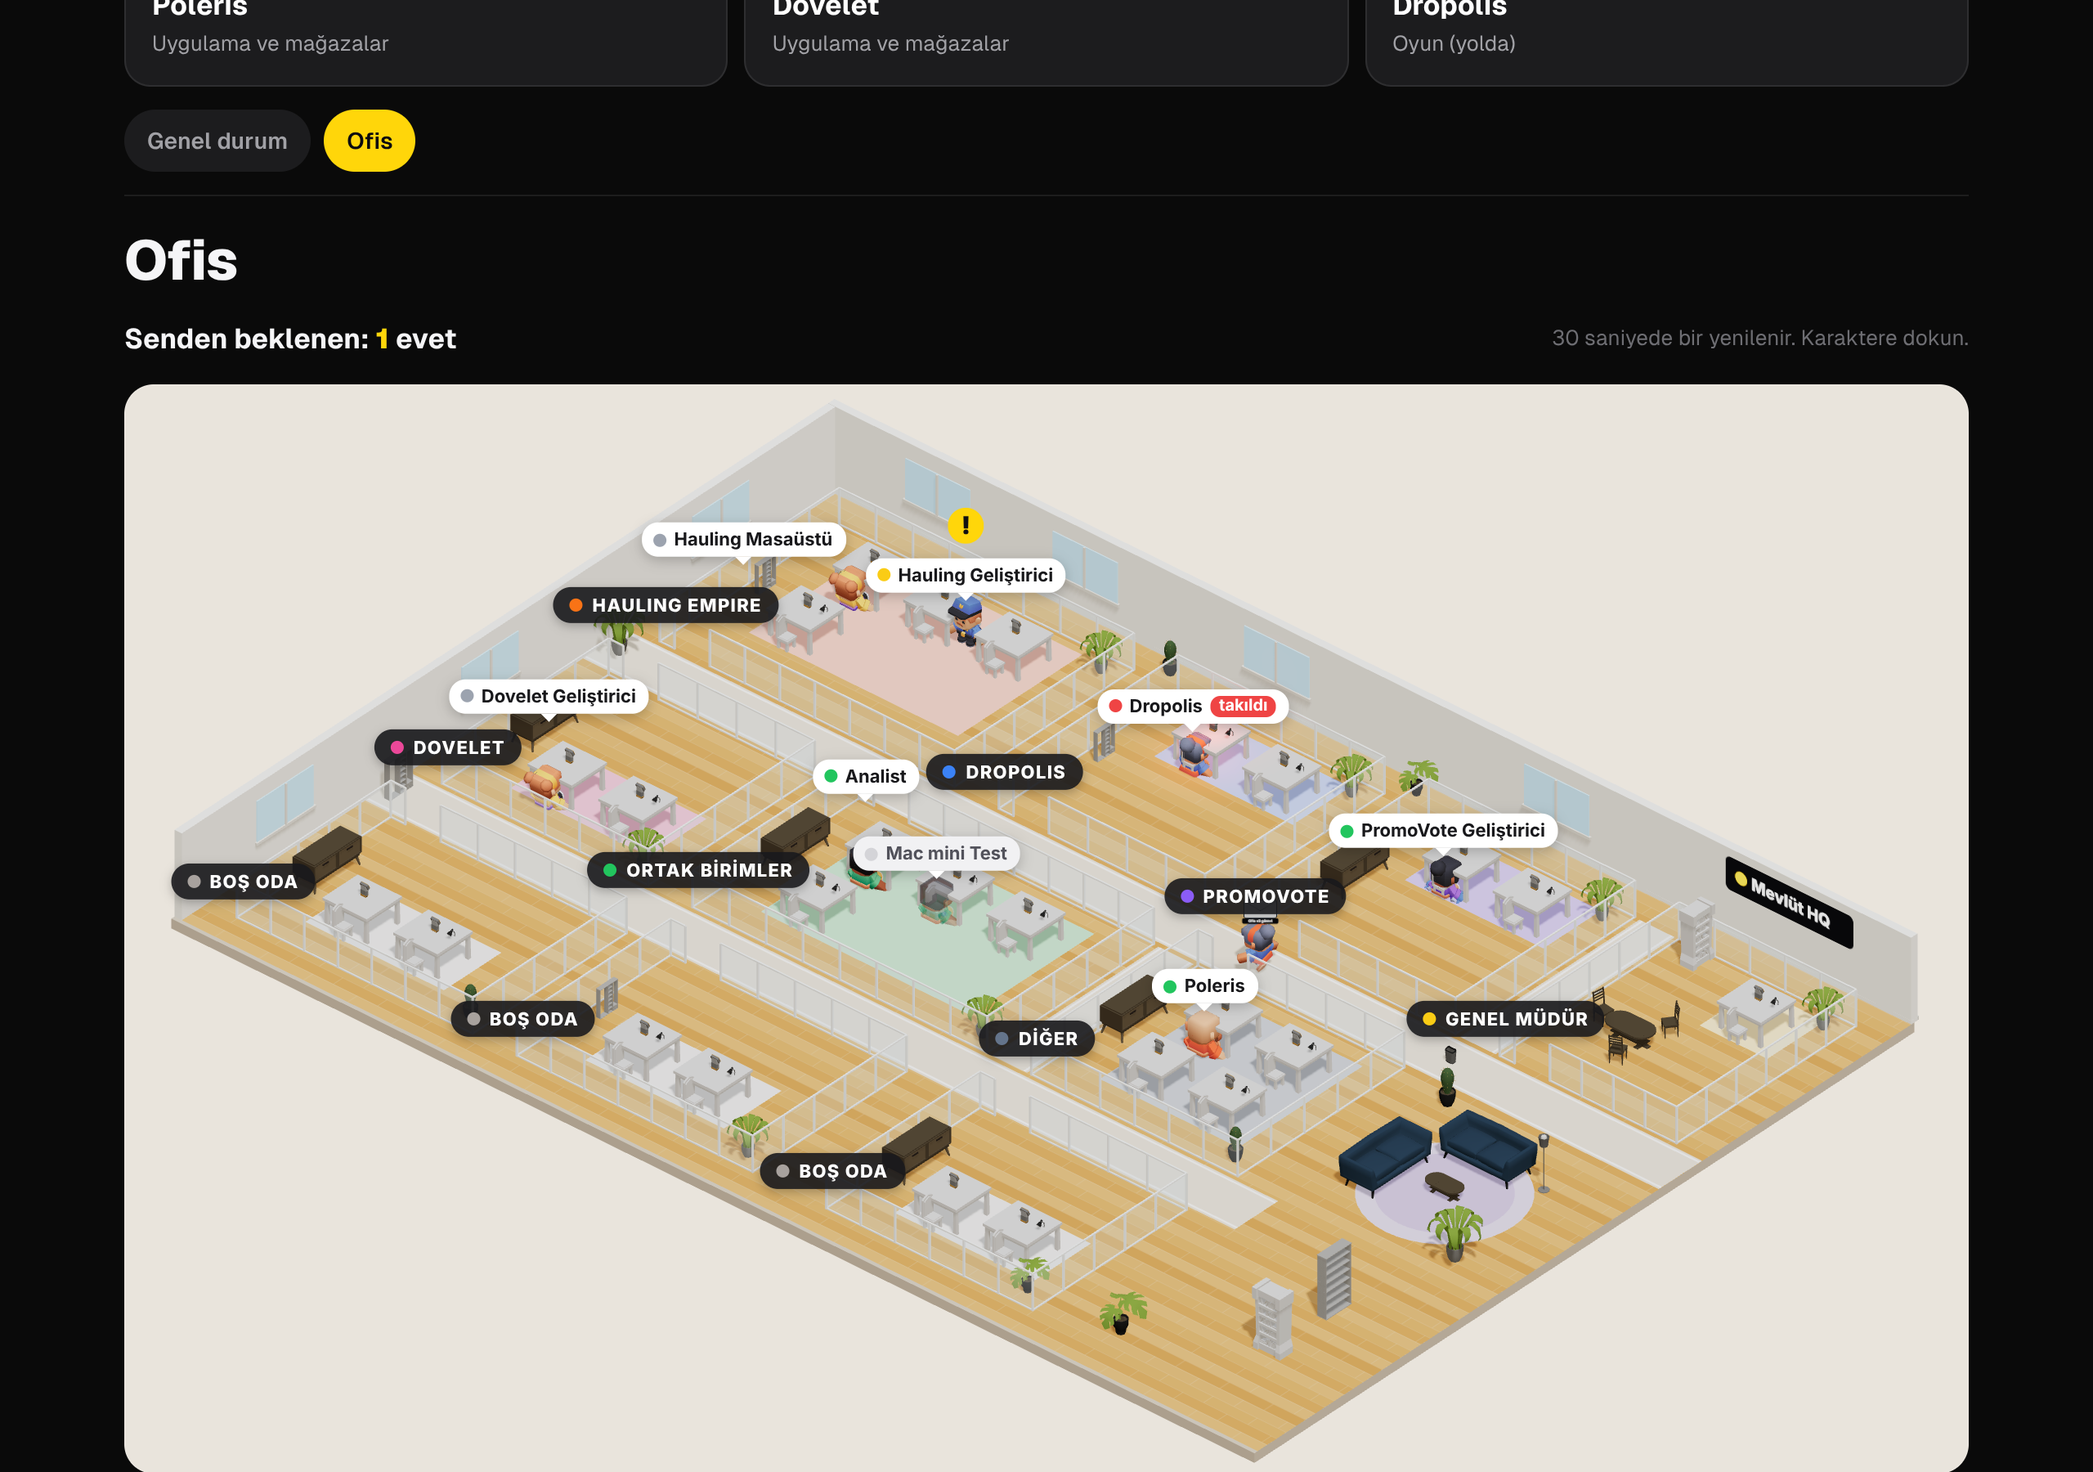
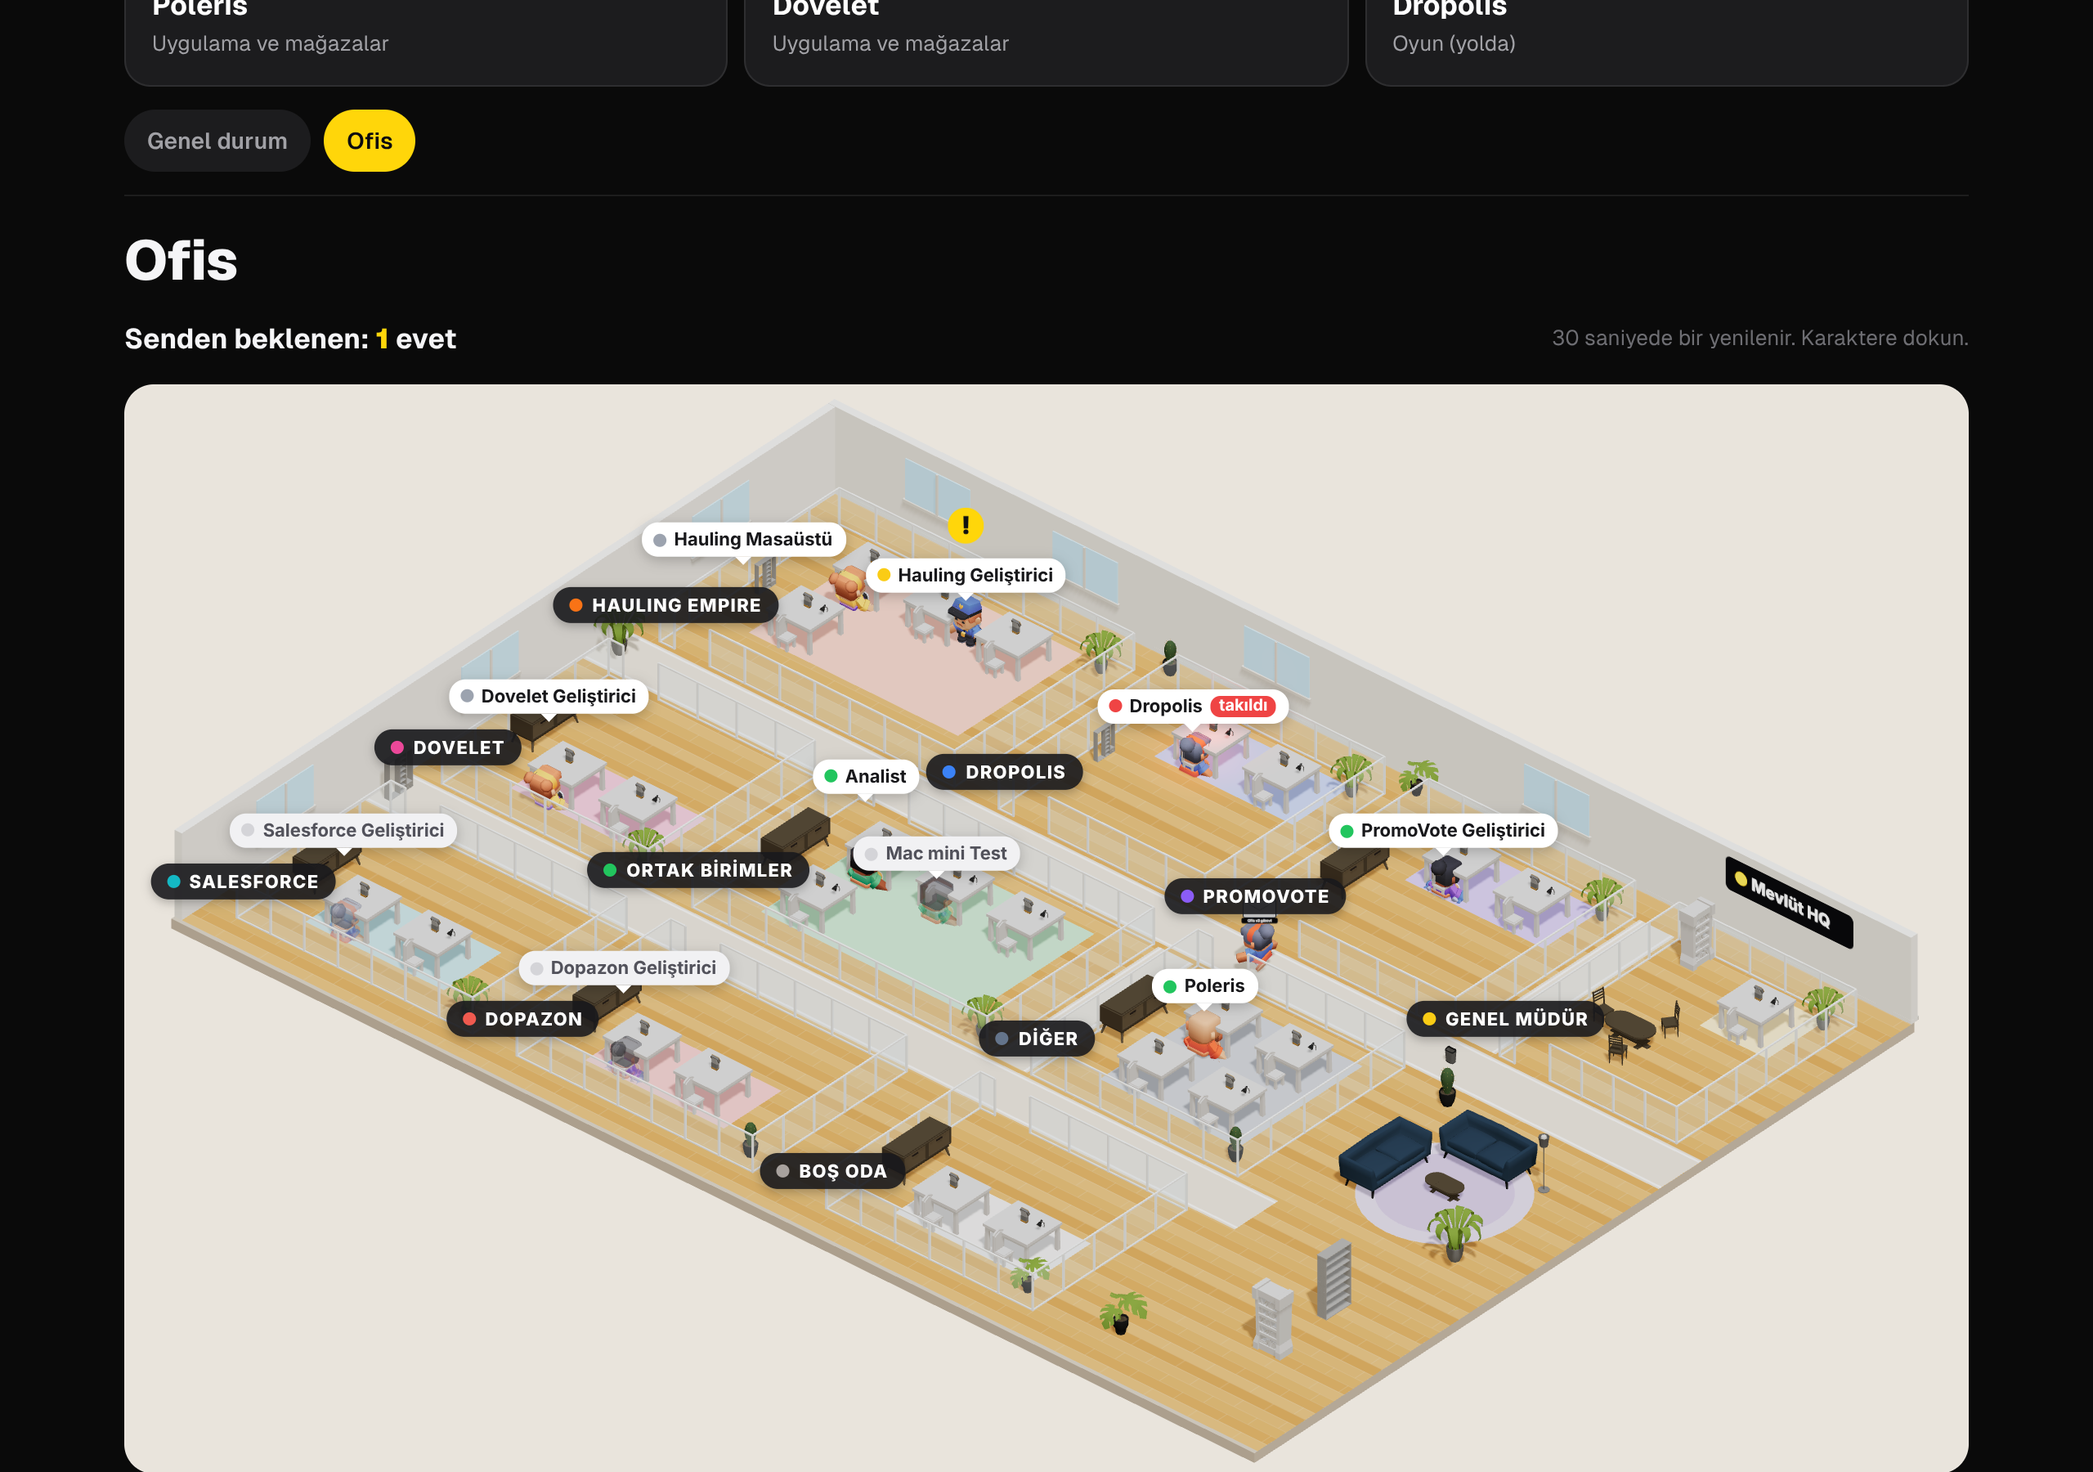
Admin Ofis v3: SALESFORCE and DOPAZON rooms (salesforce-dev, dopazon-dev), one empty room kept
Claude-Session: https://claude.ai/code/session_016Jsgeai3nmEVrWzNSNYGkb

Changed region(s): [[0.0625, 0.5289, 0.3438, 0.7467], [0.5938, 0.6222, 0.625, 0.6533], [0.3438, 0.7467, 0.375, 0.7778]]

diff --git a/web/landing/public/admin-office.js b/web/landing/public/admin-office.js
@@ -31,13 +31,13 @@ const ROOMS = [
   { key: "dovelet", name: "DOVELET", color: "#ec4899", x: 1, z: 10, w: 7, d: 6.5, door: "n", desks: 2 },
   { key: "ortak", name: "ORTAK BİRİMLER", color: "#22c55e", x: 9.5, z: 10, w: 10, d: 6.5, door: "n", desks: 4 },
   { key: "diger", name: "DİĞER", color: "#64748b", x: 21, z: 10, w: 7, d: 6.5, door: "n", desks: 4, spare: true },
-  { key: "bos1", name: "BOŞ ODA", color: "#a8a29e", x: 1, z: 18.5, w: 8, d: 6, door: "n", desks: 2, spare: true },
-  { key: "bos2", name: "BOŞ ODA", color: "#a8a29e", x: 10.5, z: 18.5, w: 8, d: 6, door: "n", desks: 2, spare: true },
+  { key: "salesforce", name: "SALESFORCE", color: "#14b8c4", x: 1, z: 18.5, w: 8, d: 6, door: "n", desks: 2 },
+  { key: "dopazon", name: "DOPAZON", color: "#f05a4f", x: 10.5, z: 18.5, w: 8, d: 6, door: "n", desks: 2 },
   { key: "bos3", name: "BOŞ ODA", color: "#a8a29e", x: 21, z: 18.5, w: 7, d: 6, door: "n", desks: 2, spare: true },
 ];
 const DEPT_OF = {
   ceo: "ceo", "hauling-dev": "hauling", "empire-desktop": "hauling", "robo-works": "dropolis", "promovote-dev": "promovote",
-  "dovelet-dev": "dovelet", "mac-mini-test": "ortak", analyst: "ortak",
+  "dovelet-dev": "dovelet", "mac-mini-test": "ortak", analyst: "ortak", "salesforce-dev": "salesforce", "dopazon-dev": "dopazon",
 };
 const CROSS_X = 20.25; // the corridor between the two room rows' right columns, used to change corridors
 
@@ -82,7 +82,7 @@ function makePlan() {
   const free = (key) => slots.find((s) => s.room.key === key && !s.agent);
   for (const a of agents) {
     // Known ids go to their department; unknown ids open desks in DİĞER, then in the empty rooms.
-    const s = free(DEPT_OF[a.id] || "diger") || free("diger") || free("bos1") || free("bos2") || free("bos3");
+    const s = free(DEPT_OF[a.id] || "diger") || free("diger") || free("bos3");
     if (s) s.agent = a;
   }
 }

diff --git a/CLAUDE.md b/CLAUDE.md
@@ -10,7 +10,7 @@ Status: validation stage. **promovote.com landing page is LIVE** (waitlist).
 ## Live infrastructure (Cloudflare)
 * Landing page: `web/landing/` (Cloudflare Worker + static assets). Deploy: `cd web/landing && npx wrangler deploy`. Custom domains promovote.com and www (www 301 to apex).
 * Waitlist: D1 `promovote-waitlist`, table `waitlist` (email, role, link, country, created_at). Count: `npx wrangler d1 execute promovote-waitlist --remote --command "SELECT role, COUNT(*) FROM waitlist GROUP BY role"`.
-* Admin: `promovote.com/admin` (HTTP Basic auth, password = Worker secret `ADMIN_PASSWORD` set by the founder in the dashboard; Claude does not know it). Navigation (founder request 2026-10-15): four product buttons (Durum, PromoVote, Hauling Empire, Poleris), then that product's pages. `/admin` is the status page (green / yellow / red per product, lists feed sections the product does not send yet). Pages (Turkish, founder request 2026-10-12): `/admin/bekleme` waitlist + CSV (`/admin/export.csv`), `/admin/visitors` (14 days), `/admin/x` (X posts and stats, read only from `promovote-db` via binding `APPDB`), `/admin/app-store` and `/admin/google-play` (Hauling Empire stats from its Supabase function `store-stats`, key in Worker secret `HE_STATS_KEY`, 1 h cache, plus a 30 day sales card), `/admin/hauling-empire/oyun` (in-game feed `store-stats?feed=ops`: online now, days, sales Apple and Google apart, products, subscriptions, online, funnel, health with color rules; 5 min cache). 7 / 30 / 90 day filter via `?range=`. Store pages have a product switcher `?p=haulingempire|poleris|promovote`; Poleris and PromoVote read `metrics_daily` (migration 0020), filled every 12 h by `services/api/src/stats.js` (Apple daily sales reports with key `ASC_STATS_*`, vendor 94642380; Google Play report files from bucket `PLAY_REPORTS_BUCKET` with `GOOGLE_PLAY_SA_JSON`) for all founder apps (PromoVote, Poleris, Hauling Empire, Dovelet, formerly Lovelet, internal id `lovelet`: Apple 6824002542, Play com.mhokutan.coupleapp, added 2026-10-17; Dovelet also gets its own ops feed later, key `LOVELET_STATS_KEY` made on the founder's computer, prompt `docs/prompts/lovelet-promovote.md`). Poleris stats endpoint (its own Supabase function `gcbcaunmxznaixwnnfux.supabase.co/functions/v1/store-stats`, same contract) uses Worker secret `POLERIS_STATS_KEY`; page `/admin/poleris/uygulama`, app tiles on its store pages; prompts in `docs/prompts/`. Plan for all products in `docs/09-metrics-hub.md`. Ad revenue page `/admin/unity-ads` (Hauling Empire group, founder request 2026-10-17; nav label "Reklam geliri"): LevelPlay Reporting API first when Worker secrets `LEVELPLAY_SECRET_KEY` and `LEVELPLAY_REFRESH_TOKEN` exist (same numbers as the LevelPlay site, all networks, 15 min cache, founder request 2026-10-22), else Unity Monetization Stats API (CSV, org level, split by game, platform, country, 1 h cache), Worker secrets `UNITY_ADS_KEY` and `UNITY_ORG_ID` entered by the founder. Store reviews page `/admin/yorumlar?p=<product>` (founder request 2026-11-09, "Yorumlar" in each product group, plus a status card): table `store_reviews` in `promovote-db` (migration 0023), filled by `services/api/src/reviews.js` on the `0 * * * *` job, one app per run, each about every 6 h; Apple from the App Store Connect API customerReviews with the `ASC_STATS_*` key (all countries, with your replies; the public RSS feed answers 403 to Workers and is only a fallback), Google from the monthly `reviews/` CSV in the Play reports bucket; reviewer names and devices are never stored; read only, replies stay in the store consoles. Office page `/admin/office` (founder request 2026-11-12, under Durum): the founder's Claude sessions in a roofless floor plan (version 2, 2026-11-12: one room per unit with half height walls, door gap and name board, project colors Hauling orange, Dropolis blue, PromoVote purple, Dovelet pink, shared units green, light wood floor; CC0 models only, Quaternius furniture and Kenney Mini Characters in `public/office/models`, sources in `web/landing/CREDITS.md`, under 5 MB; working types at the desk, idle sits back, waiting_owner stands with a yellow "!", blocked red light and "takıldı", offline room dark; a new office_agents row opens a new room; three.js 0.160.0 plus GLTFLoader, SkeletonUtils, OrbitControls vendored in `public/vendor`, script `public/admin-office.js`, plain list fallback, 30 s refresh; admin pages allow blob: images for the model textures). Data: its own D1 database `office-db` (founder decision 2026-11-12, nothing of the office in promovote-db), tables `office_agents` and `office_notes` (`services/api/office-migrations/0001_office.sql`); created, migrated and live since 2026-11-12, id `3419c845-6e07-4dca-97de-dde5446bf70f`, binding `OFFICE_DB` on promovote-api. Written only by the CEO session directly with the D1 tool (no write endpoint), read through `GET /v1/admin/office` on the API (SELECT only, `ADMIN_API_TOKEN`). Version 2 of the 3D view is live since 2026-11-12 (promovote-landing 2ea316c2). Version 3 (founder request 2026-11-13, on branch claude/gracious-pasteur-nu8ssc, NOT deployed yet): isometric open plan with white outer walls and windows, glass rooms per department (HAULING EMPIRE orange, DROPOLIS blue, PROMOVOTE purple, DOVELET pink, ORTAK BİRİMLER green, GENEL MÜDÜR next to the lounge, DİĞER for unknown ids, empty rooms for later), name bubbles with status dots, bottom bar "CEO'ya not bırak" (the only write: office_notes status new, `POST /admin/office/note` same origin, then `POST /v1/admin/office/notes`), mail walk animation from table `office_mail` (migration `office-migrations/0002_office_mail.sql`, not applied yet; last 10 minutes; shown ids kept in the browser). Screenshots in `docs/office-screenshots/`. CEO note in `docs/office-ceo.md`, tests `node --test web/landing/tests/office.test.mjs`. `keep_vars` is on; dashboard values must be Secrets.
+* Admin: `promovote.com/admin` (HTTP Basic auth, password = Worker secret `ADMIN_PASSWORD` set by the founder in the dashboard; Claude does not know it). Navigation (founder request 2026-10-15): four product buttons (Durum, PromoVote, Hauling Empire, Poleris), then that product's pages. `/admin` is the status page (green / yellow / red per product, lists feed sections the product does not send yet). Pages (Turkish, founder request 2026-10-12): `/admin/bekleme` waitlist + CSV (`/admin/export.csv`), `/admin/visitors` (14 days), `/admin/x` (X posts and stats, read only from `promovote-db` via binding `APPDB`), `/admin/app-store` and `/admin/google-play` (Hauling Empire stats from its Supabase function `store-stats`, key in Worker secret `HE_STATS_KEY`, 1 h cache, plus a 30 day sales card), `/admin/hauling-empire/oyun` (in-game feed `store-stats?feed=ops`: online now, days, sales Apple and Google apart, products, subscriptions, online, funnel, health with color rules; 5 min cache). 7 / 30 / 90 day filter via `?range=`. Store pages have a product switcher `?p=haulingempire|poleris|promovote`; Poleris and PromoVote read `metrics_daily` (migration 0020), filled every 12 h by `services/api/src/stats.js` (Apple daily sales reports with key `ASC_STATS_*`, vendor 94642380; Google Play report files from bucket `PLAY_REPORTS_BUCKET` with `GOOGLE_PLAY_SA_JSON`) for all founder apps (PromoVote, Poleris, Hauling Empire, Dovelet, formerly Lovelet, internal id `lovelet`: Apple 6824002542, Play com.mhokutan.coupleapp, added 2026-10-17; Dovelet also gets its own ops feed later, key `LOVELET_STATS_KEY` made on the founder's computer, prompt `docs/prompts/lovelet-promovote.md`). Poleris stats endpoint (its own Supabase function `gcbcaunmxznaixwnnfux.supabase.co/functions/v1/store-stats`, same contract) uses Worker secret `POLERIS_STATS_KEY`; page `/admin/poleris/uygulama`, app tiles on its store pages; prompts in `docs/prompts/`. Plan for all products in `docs/09-metrics-hub.md`. Ad revenue page `/admin/unity-ads` (Hauling Empire group, founder request 2026-10-17; nav label "Reklam geliri"): LevelPlay Reporting API first when Worker secrets `LEVELPLAY_SECRET_KEY` and `LEVELPLAY_REFRESH_TOKEN` exist (same numbers as the LevelPlay site, all networks, 15 min cache, founder request 2026-10-22), else Unity Monetization Stats API (CSV, org level, split by game, platform, country, 1 h cache), Worker secrets `UNITY_ADS_KEY` and `UNITY_ORG_ID` entered by the founder. Store reviews page `/admin/yorumlar?p=<product>` (founder request 2026-11-09, "Yorumlar" in each product group, plus a status card): table `store_reviews` in `promovote-db` (migration 0023), filled by `services/api/src/reviews.js` on the `0 * * * *` job, one app per run, each about every 6 h; Apple from the App Store Connect API customerReviews with the `ASC_STATS_*` key (all countries, with your replies; the public RSS feed answers 403 to Workers and is only a fallback), Google from the monthly `reviews/` CSV in the Play reports bucket; reviewer names and devices are never stored; read only, replies stay in the store consoles. Office page `/admin/office` (founder request 2026-11-12, under Durum): the founder's Claude sessions in a roofless floor plan (version 2, 2026-11-12: one room per unit with half height walls, door gap and name board, project colors Hauling orange, Dropolis blue, PromoVote purple, Dovelet pink, shared units green, light wood floor; CC0 models only, Quaternius furniture and Kenney Mini Characters in `public/office/models`, sources in `web/landing/CREDITS.md`, under 5 MB; working types at the desk, idle sits back, waiting_owner stands with a yellow "!", blocked red light and "takıldı", offline room dark; a new office_agents row opens a new room; three.js 0.160.0 plus GLTFLoader, SkeletonUtils, OrbitControls vendored in `public/vendor`, script `public/admin-office.js`, plain list fallback, 30 s refresh; admin pages allow blob: images for the model textures). Data: its own D1 database `office-db` (founder decision 2026-11-12, nothing of the office in promovote-db), tables `office_agents` and `office_notes` (`services/api/office-migrations/0001_office.sql`); created, migrated and live since 2026-11-12, id `3419c845-6e07-4dca-97de-dde5446bf70f`, binding `OFFICE_DB` on promovote-api. Written only by the CEO session directly with the D1 tool (no write endpoint), read through `GET /v1/admin/office` on the API (SELECT only, `ADMIN_API_TOKEN`). Version 2 of the 3D view is live since 2026-11-12 (promovote-landing 2ea316c2). Version 3 (founder request 2026-11-13, on branch claude/gracious-pasteur-nu8ssc, NOT deployed yet): isometric open plan with white outer walls and windows, glass rooms per department (HAULING EMPIRE orange, DROPOLIS blue, PROMOVOTE purple, DOVELET pink, ORTAK BİRİMLER green, GENEL MÜDÜR next to the lounge, SALESFORCE teal and DOPAZON coral (2026-11-13), DİĞER for unknown ids, one empty room for later), name bubbles with status dots, bottom bar "CEO'ya not bırak" (the only write: office_notes status new, `POST /admin/office/note` same origin, then `POST /v1/admin/office/notes`), mail walk animation from table `office_mail` (migration `office-migrations/0002_office_mail.sql`, not applied yet; last 10 minutes; shown ids kept in the browser). Screenshots in `docs/office-screenshots/`. CEO note in `docs/office-ceo.md`, tests `node --test web/landing/tests/office.test.mjs`. `keep_vars` is on; dashboard values must be Secrets.
 * X posts (queue `social_posts` in `promovote-db`, hourly cron, videos as `media_url` on promovote.com): X pay-per-use, a post with any URL costs $0.20, a plain post $0.015 (2026-10). Founder rule 2026-10-19, tightened 2026-10-22: no post carries a link (say "link in our profile" or "search ... on the App Store / Google Play"); video instead of link. 10 plain posts a day at 11/12/13/14/16/17/18/20/21/23 UTC (founder decision 2026-11-02, raised from 4 to use the X credit before it expires) plus at least 2 video posts a week, made by Claude with HyperFrames (`videos/promovote-x-launch`, `videos/promovote-x-duel` as templates, own synthesized music in `scripts/make_music.py`). Only exception: the iPhone launch day post. Videos must be H.264 MP4 in `web/landing/public/media/x/`.
 * Visit counter (cookieless, own): the Worker injects `public/v.js` into every HTML page; it posts to `/api/v`, rows go to D1 `promovote-waitlist` table `visits` (visitor = daily salted hash, no IP stored; salt in `visit_salt`). Bots, headless browsers and the admin's browser (`v-ignore.js` on /admin) are not counted.
 * Bot protection: Turnstile widget `promovote-waitlist`; secret stored as Worker secret `TURNSTILE_SECRET` (never commit it).

diff --git a/docs/office-ceo.md b/docs/office-ceo.md
@@ -14,8 +14,9 @@ The office page promovote.com/admin/office reads two tables in the Cloudflare D1
 
 Desks by `office_agents.id`: `ceo` = GENEL MÜDÜR (own glass room next to the lounge); `hauling-dev`, `empire-desktop` =
 HAULING EMPIRE; `robo-works` = DROPOLIS; `promovote-dev` = PROMOVOTE; `dovelet-dev` = DOVELET; `mac-mini-test`,
-`analyst` = ORTAK BİRİMLER. Any other id gets a desk in DİĞER (then in the empty rooms). The empty rooms wait for future
-departments (Salesforce, Dopazon, YouTube, Unity); adding one is a code change in `web/landing/public/admin-office.js`.
+`analyst` = ORTAK BİRİMLER; `salesforce-dev` = SALESFORCE (teal); `dopazon-dev` = DOPAZON (coral). Any other id gets
+a desk in DİĞER (then in the empty room). One BOŞ ODA waits for a future department (YouTube, Unity); adding one is a
+code change in `web/landing/public/admin-office.js`.
 
 **Notes from the founder.** The bottom bar "CEO'ya not bırak" writes a row to `office_notes` with status `new` (admin
 login only, 1 to 1000 characters; the only write endpoint, `POST /v1/admin/office/notes` on promovote-api). Read them:
